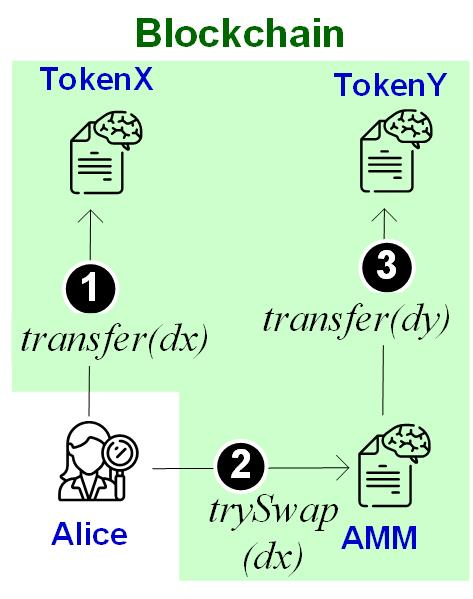
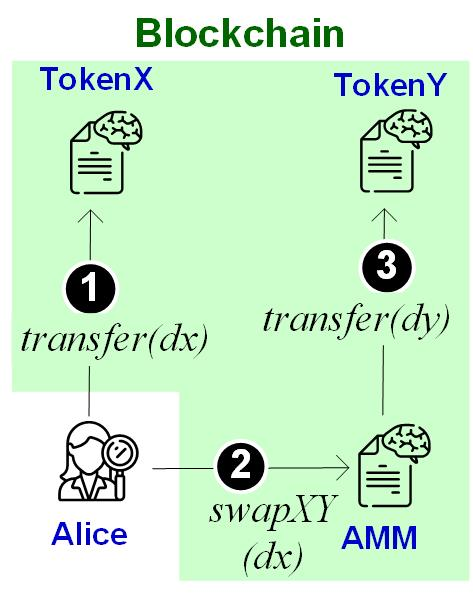
new lab design in 2020

Changed region(s): [[0.444, 0.8114, 0.7104, 0.9015]]

diff --git a/labs/B2/README.md b/labs/B2/README.md
@@ -30,10 +30,10 @@ contract MyToken {
     balances[msg.sender] = _totalSupply;  
   }
   
-  function transfer(address receiver, uint nuTokenXs) public returns (bool) {    
-    require(nuTokenXs <= balances[msg.sender]);        
-    balances[msg.sender] = balances[msg.sender] - nuTokenXs;    
-    balances[receiver] = balances[receiver] + nuTokenXs;    
+  function transfer(address receiver, uint amount) public returns (bool) {    
+    require(amount <= balances[msg.sender]);        
+    balances[msg.sender] = balances[msg.sender] - amount;    
+    balances[receiver] = balances[receiver] + amount;    
     return true;  
   }
 
@@ -55,11 +55,12 @@ In the figure above, trader Alice first transfers `dx` units of TokenX from her 
 In this exercise, you can consider that dy/dx = 2. Implement the AMM smart contract.
 
 ```
+pragma solidity >=0.7.0 <0.9.0; 
 contract AMM {
   MyToken tokenX, tokenY;
-  // _tokenX is a CA running TokenX’s smart contract
-  constructor(){
-    tokenX = new MyToken("Token X", 100); tokenY = new MyToken("Token Y", 100);
+  // _tokenX and _tokenY are contract-addresses running MyToken SC
+  constructor(address _tokenX, address _tokenY){
+    tokenX = MyToken(_tokenX); tokenY = MyToken(_tokenY);
   }
 
   function swapXY(uint amountX) public payable {
@@ -69,8 +70,12 @@ contract AMM {
 ```
 
 - Workflow to execuse your code:
-    - Write and compile a AMM smart contract
-    - Deploy AMM smart contract.
+    - Write and compile an `AMM` smart contract.
+    - Deploy `MyToken` smart contract twice, respectively to two contract addresses, say `_tokenX` and `_tokenY`.
+    - Deploy `AMM` smart contract with `_tokenX` and `_tokenY`.
+    - Execute the smart contracts in two steps: 
+        - 1) call `_tokenX`'s `transfer` function
+        - 2) call `AMM`'s `swapXY` function
 
 Exercise 3. Impl. constant-product AMM
 ---

diff --git a/labs/B1/README.md b/labs/B1/README.md
@@ -31,10 +31,10 @@ contract MyToken {
     balances[msg.sender] = _totalSupply;  
   }
   
-  function transfer(address receiver, uint nuTokenXs) public returns (bool) {    
-    require(nuTokenXs <= balances[msg.sender]);        
-    balances[msg.sender] = balances[msg.sender] - nuTokenXs;    
-    balances[receiver] = balances[receiver] + nuTokenXs;    
+  function transfer(address receiver, uint amount) public returns (bool) {    
+    require(amount <= balances[msg.sender]);        
+    balances[msg.sender] = balances[msg.sender] - amount;    
+    balances[receiver] = balances[receiver] + amount;    
     return true;  
   }
 
@@ -48,7 +48,7 @@ Your job in this exercise is to deploy the above smart contract in Remix, creati
 Exercise 2. Execute atomic swap settlement in one transaction (by escrow EOA)
 ---
 
-An atomic swap occurs between two accounts in two tokens. Suppose Alice of token TokenX wants to trade her TokenXs for Bob’s TokenYs. For simplicity, we assume the exchange rate between TokenX and TokenY is always 1:1 (i.e., one TokenX for one TokenY). A swap incurs a transfer from Alice to Bob in TokenX and another transfer from Bob to Alice in TokenY.
+An atomic swap occurs between two accounts in two tokens. Suppose Alice of token TokenX wants to trade her TokenXs for Bob's TokenYs. For simplicity, we assume the exchange rate between TokenX and TokenY is always 1:1 (i.e., one TokenX for one TokenY). A swap incurs a transfer from Alice to Bob in TokenX and another transfer from Bob to Alice in TokenY.
 
 A simple swap protocol is to do the two transfers in one transaction. This requires Alice and Bob (two EOAs) first transfer tokens to a trusted third-party account, that is, the escrow. After the escrow receives both Alice's TokenX and Bob's TokenY, the escrow then sends TokenX to Bob and TokenY to Alice, to settle the swap. 
 
